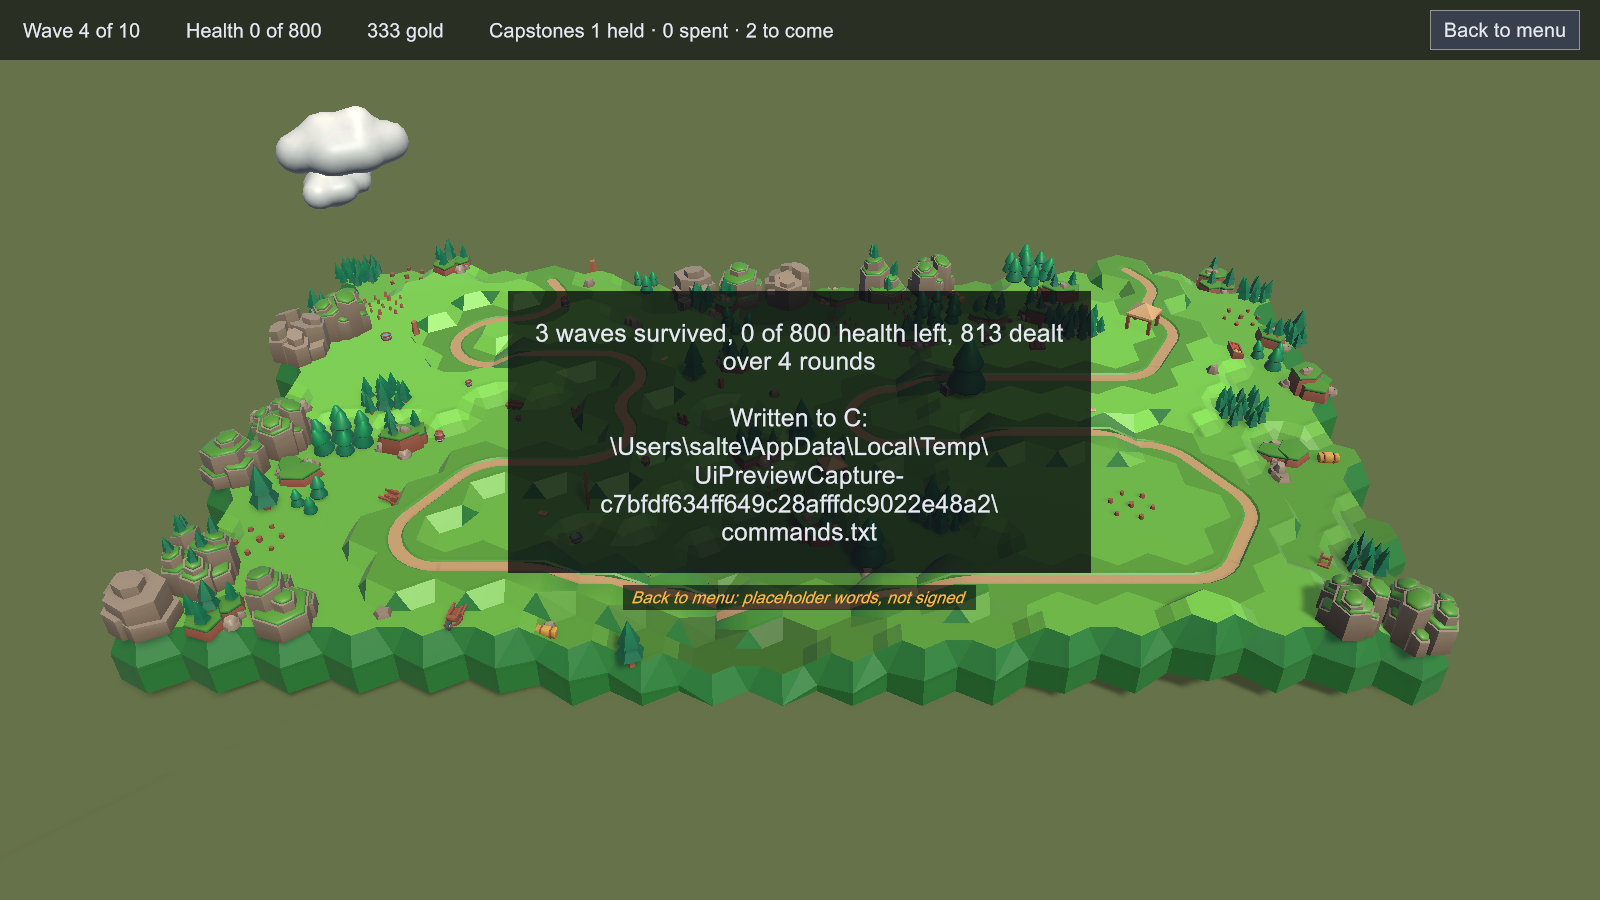
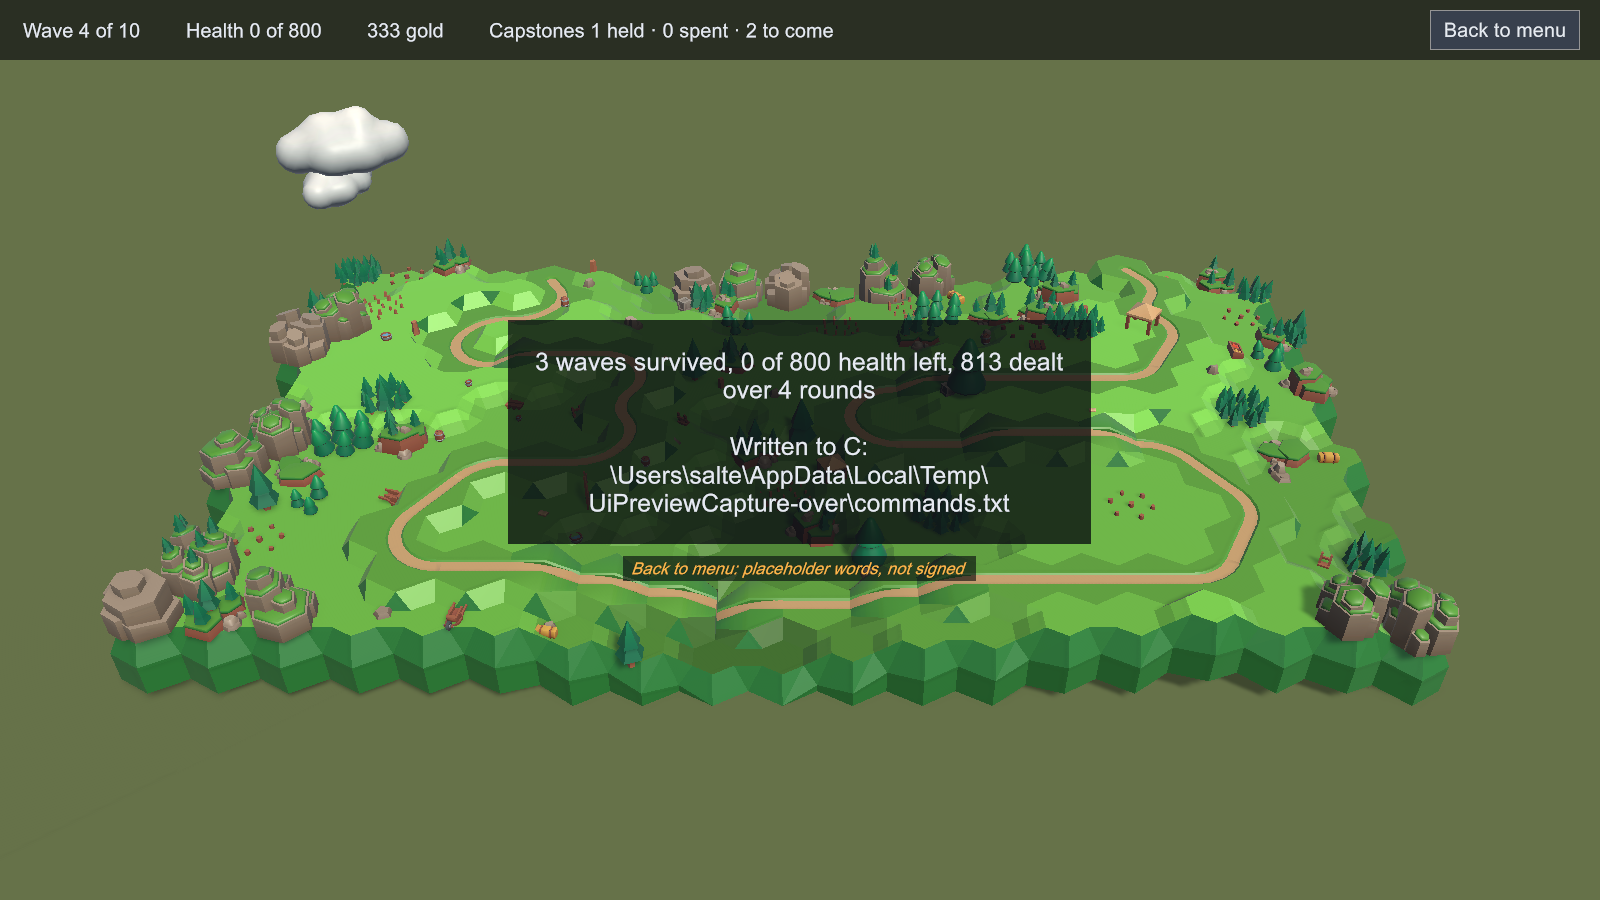
The wrapper's buttons share one factory, and the end-of-run sheet redraws the same
From the review of the wrapper commit: the menu's buttons and the settings
screen's Back are styled by RuntimePanel.ControlButton rather than twice;
the dropdown's Full screen and Windowed are named in the unsigned mark; the
over shot writes to a fixed scratch folder emptied first, so a re-render
prints the same path instead of a fresh GUID; and the Loop doc comment the
first commit edited is gone.

Changed region(s): [[0.3125, 0.3111, 0.6875, 0.6844]]

diff --git a/client/Assets/View/SettingsScreen.cs b/client/Assets/View/SettingsScreen.cs
@@ -153,22 +153,17 @@ namespace View
             AddRow(card, "Display", DisplayLabel, Display, DisplayCost);
 
             _resolutions = OfferedResolutions();
-            ScreenSize = new DropdownField(_resolutions.Select(Words).ToList(), CurrentSizeIndex());
+            ScreenSize = new DropdownField(_resolutions.Select(Text).ToList(), CurrentSizeIndex());
             ScreenSize.RegisterValueChangedCallback(_ => ApplySize(_resolutions[ScreenSize.index]));
             AddRow(card, "Resolution", ResolutionLabel, ScreenSize, ResolutionCost);
 
-            Back = new Button(Close) { name = "Back", text = BackLabel };
-            Back.style.width = BackWidth;
-            Back.style.height = BackHeight;
+            Back = RuntimePanel.ControlButton("Back", BackLabel, Close, BackWidth, BackHeight, NameFontSize);
             Back.style.alignSelf = Align.Center;
             Back.style.marginTop = RowGap;
-            Back.style.backgroundColor = RuntimePanel.ControlColor;
-            Back.style.color = RuntimePanel.LabelColor;
-            Back.style.fontSize = NameFontSize;
             card.Add(Back);
 
             card.Add(Unsigned.Mark(string.Join(", ", PlayerNameLabel, LobbyFolderLabel, DisplayLabel,
-                ResolutionLabel, BackLabel)));
+                FullScreenChoice, WindowedChoice, ResolutionLabel, BackLabel)));
         }
 
         private static FullScreenMode ModeFor(string choice) =>
@@ -193,9 +188,9 @@ namespace View
         private int CurrentSizeIndex() =>
             Array.FindIndex(_resolutions, size => size.width == Screen.width && size.height == Screen.height);
 
-        private static string Words(Resolution size) => size.width + " x " + size.height;
+        private static string Text(Resolution size) => size.width + " x " + size.height;
 
-        private void AddRow(VisualElement card, string name, string words, VisualElement control, string cost)
+        private void AddRow(VisualElement card, string name, string text, VisualElement control, string cost)
         {
             var row = new VisualElement { name = name };
             row.style.marginBottom = RowGap;
@@ -204,7 +199,7 @@ namespace View
             line.style.flexDirection = FlexDirection.Row;
             line.style.alignItems = Align.Center;
 
-            var label = new Label(words) { pickingMode = PickingMode.Ignore };
+            var label = new Label(text) { pickingMode = PickingMode.Ignore };
             label.style.width = NameWidth;
             label.style.color = RuntimePanel.LabelColor;
             label.style.fontSize = NameFontSize;
@@ -226,7 +221,6 @@ namespace View
 
             _rows.Add(row);
         }
-
 
         private static VisualElement Card()
         {

diff --git a/client/Assets/View/MainMenu.cs b/client/Assets/View/MainMenu.cs
@@ -137,18 +137,10 @@ namespace View
             Settings.Closed += () => Show(!RunIsGoing);
         }
 
-
-        private static Button AddButton(VisualElement screen, string name, string words, Action pressed)
+        private static Button AddButton(VisualElement screen, string name, string text, Action pressed)
         {
-            var button = new Button(pressed) { name = name, text = words };
-
-            button.style.width = ButtonWidth;
-            button.style.height = ButtonHeight;
+            Button button = RuntimePanel.ControlButton(name, text, pressed, ButtonWidth, ButtonHeight, ButtonFontSize);
             button.style.marginBottom = RuntimePanel.ControlGap;
-            button.style.backgroundColor = RuntimePanel.ControlColor;
-            button.style.color = RuntimePanel.LabelColor;
-            button.style.fontSize = ButtonFontSize;
-
             screen.Add(button);
 
             return button;

diff --git a/client/Assets/Editor/UiPreviewCapture.cs b/client/Assets/Editor/UiPreviewCapture.cs
@@ -429,9 +429,19 @@ namespace View.Editor
             shot.state == "menu" || shot.state == "settings";
 
         private static string RunFolder(ShotSpec shot) =>
-            shot.state == "over"
-                ? Path.Combine(Path.GetTempPath(), "UiPreviewCapture-" + Guid.NewGuid().ToString("N"))
-                : Path.GetTempPath();
+            shot.state == "over" ? EmptiedOverFolder() : Path.GetTempPath();
+
+        private static string EmptiedOverFolder()
+        {
+            string folder = Path.Combine(Path.GetTempPath(), "UiPreviewCapture-over");
+
+            if (Directory.Exists(folder))
+            {
+                Directory.Delete(folder, recursive: true);
+            }
+
+            return folder;
+        }
 
         private static void OpenWrapper(ShotSpec shot, MatchRoot root, ulong seed)
         {

diff --git a/client/Assets/View/RuntimePanel.cs b/client/Assets/View/RuntimePanel.cs
@@ -77,6 +77,19 @@ namespace View
 
         public static Color BackdropColor => new Color(0.03f, 0.04f, 0.05f, 0.6f);
 
+        public static Button ControlButton(string name, string text, Action pressed, float width, float height, int fontSize)
+        {
+            var button = new Button(pressed) { name = name, text = text };
+
+            button.style.width = width;
+            button.style.height = height;
+            button.style.backgroundColor = ControlColor;
+            button.style.color = LabelColor;
+            button.style.fontSize = fontSize;
+
+            return button;
+        }
+
         public static VisualElement Backdrop(string name)
         {
             var backdrop = new VisualElement { name = name };

diff --git a/client/Assets/View/MatchRoot.cs b/client/Assets/View/MatchRoot.cs
@@ -98,10 +98,6 @@ namespace View
         /// <summary>The art the match is drawn with.</summary>
         public MatchArt Art => art;
 
-        /// <summary>
-        /// Build, commit, watch, ten waves — and which of those is on screen.
-        /// Null until <see cref="BeginRun(ulong, string, MatchArt)"/>.
-        /// </summary>
         public RunLoop Loop { get; private set; }
 
         /// <summary>
